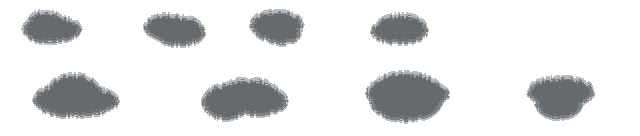
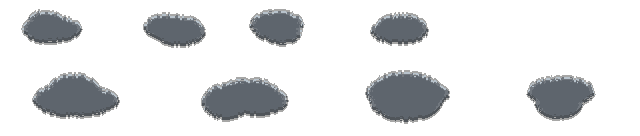
dev25: wet ground in rain, sky-coloured puddles, livelier shrubs
A shared ground material darkens and cools the ground as rain sets in
(eased in ~20 s, drying over ~1.5 min); asphalt, paving and concrete darken
more and catch sparse sky glints. Puddles mirror the overcast sky in daylight
(grey-blue, deeper middle, darker near bank) instead of reading as holes.
Shrubs sway more.

Claude-Session: https://claude.ai/code/session_01Q3d652Ep37MrDZiN13QEse

diff --git a/tools/wa_puddles_hd.py b/tools/wa_puddles_hd.py
@@ -3,9 +3,9 @@
 Row 0: four puddle shapes, 112 x 56 texels each (56 x 28 world units).
 Row 1 (y 56): four large ones, 160 x 80 texels (80 x 40 units), laid under
 street lamps where the light pours onto the wet pavement. All flattened by
-the 3/4 view. Dark still water that lets the ground show through faintly, a
-wet darker rim where the ground is soaked, and a pale sky sheen along the far
-(upper) edge. The alpha is the water mask: a shader clips light reflections
+the 3/4 view. Still water mirroring the overcast sky (grey-blue, deeper in the middle,
+darker under the near bank), a wet darker rim where the ground is soaked,
+and a pale sky sheen along the far (upper) edge. The alpha is the water mask: a shader clips light reflections
 to it (clip_children does not work in Compatibility), so they stay on water.
 
     python3 tools/wa_puddles_hd.py <project_dir>
@@ -47,16 +47,20 @@ def cell(m):
         # soaked rim one texel outside the water
         rim = (np.roll(m, 1, 0) | np.roll(m, -1, 0) | np.roll(m, 1, 1) | np.roll(m, -1, 1) |
                np.roll(m, 2, 0) | np.roll(m, -2, 0)) & ~m
-        a[rim] = (14, 16, 18, 70)
-        a[m] = (34, 40, 46, 150)
+        a[rim] = (22, 20, 18, 96)
+        # water mirrors the overcast sky: a grey-blue, not a black hole
+        a[m] = (78, 86, 94, 205)
         # depth: the middle a little darker
         core = m & np.roll(m, 3, 0) & np.roll(m, -3, 0) & np.roll(m, 4, 1) & np.roll(m, -4, 1)
-        a[core] = (26, 32, 38, 170)
+        a[core] = (64, 72, 82, 215)
+        # a darker band under the near (lower) bank: the bank's reflection
+        near = m & ~np.roll(m, -3, 0)
+        a[near] = (52, 58, 64, 220)
         # sky sheen along the upper (far) edge, broken into pixel dashes
         top = m & ~np.roll(m, 2, 0)
         xs = np.arange(w)[None, :].repeat(h, 0)
         sheen = top & ((xs // 3) % 3 != 0)
-        a[sheen] = (140, 154, 166, 190)
+        a[sheen] = (176, 188, 198, 230)
     return a
 
 

diff --git a/README_1380_DEV1_WORLD_HD.md b/README_1380_DEV1_WORLD_HD.md
@@ -419,11 +419,26 @@ QA: `tests/qa_vertical_fence_capture.gd`.
 ## Кусты и трава на ветру, брызги дождя (dev24)
 
 - Шейдер ветра стал общим (`TREE_SWAY_SHADER` с параметрами base_row / span
-  / amp): деревья 140/110/3, кусты 54/40/1,6, бурьян и высокая трава
-  58/34/2,6 (`_vegetation_sway`, во всех пяти местах расстановки
+  / amp): деревья 140/110/3, кусты 57/46/2,8 (dev25: качаются заметнее), бурьян и высокая трава
+  58/34/2,8 (`_vegetation_sway`, во всех пяти местах расстановки
   `vegetation_v1`). Кучи листьев и упавшие ветки лежат неподвижно.
 - Брызги дождя на земле (`RAIN_SPLASH_SHADER`): слой под камерой,
   привязанный к мировым координатам. Он лежит над землёй, но под лужами,
   декалями, интерьерами и объектами. Капля бьёт пикселем с двумя брызгами
   вверх, потом расходится маленьким приплюснутым кругом. Около пятой части
   ячеек 11×7 за каждые полсекунды. В помещениях и без дождя слой скрыт.
+
+## Мокрая земля, лужи днём (dev25)
+
+- Кусты качаются заметнее (амплитуда 2,8 текселя, качание начинается ниже по
+  кусту).
+- Мокрая земля (`WET_GROUND_SHADER`, общий материал земли всех чанков). В
+  дождь земля за ~20 с темнеет и холодеет. Асфальт, плитка и бетон (тёмные
+  ненасыщенные тексели) темнеют сильнее и ловят редкие блики неба 1×6
+  текселей. После дождя всё высыхает за ~1,5 мин.
+- Лужи днём больше не похожи на чёрные дыры. Вода отражает пасмурное небо:
+  серо-голубая, глубже в середине, темнее под ближним берегом, с бликом
+  неба по дальнему краю и тёмной мокрой каймой. Ночью вода темнеет вместе с
+  миром, отражения фонарей остаются.
+- `qa_district_visual_capture` сразу выставляет мокрую землю
+  (`_update_weather_visuals(0.0)`).
